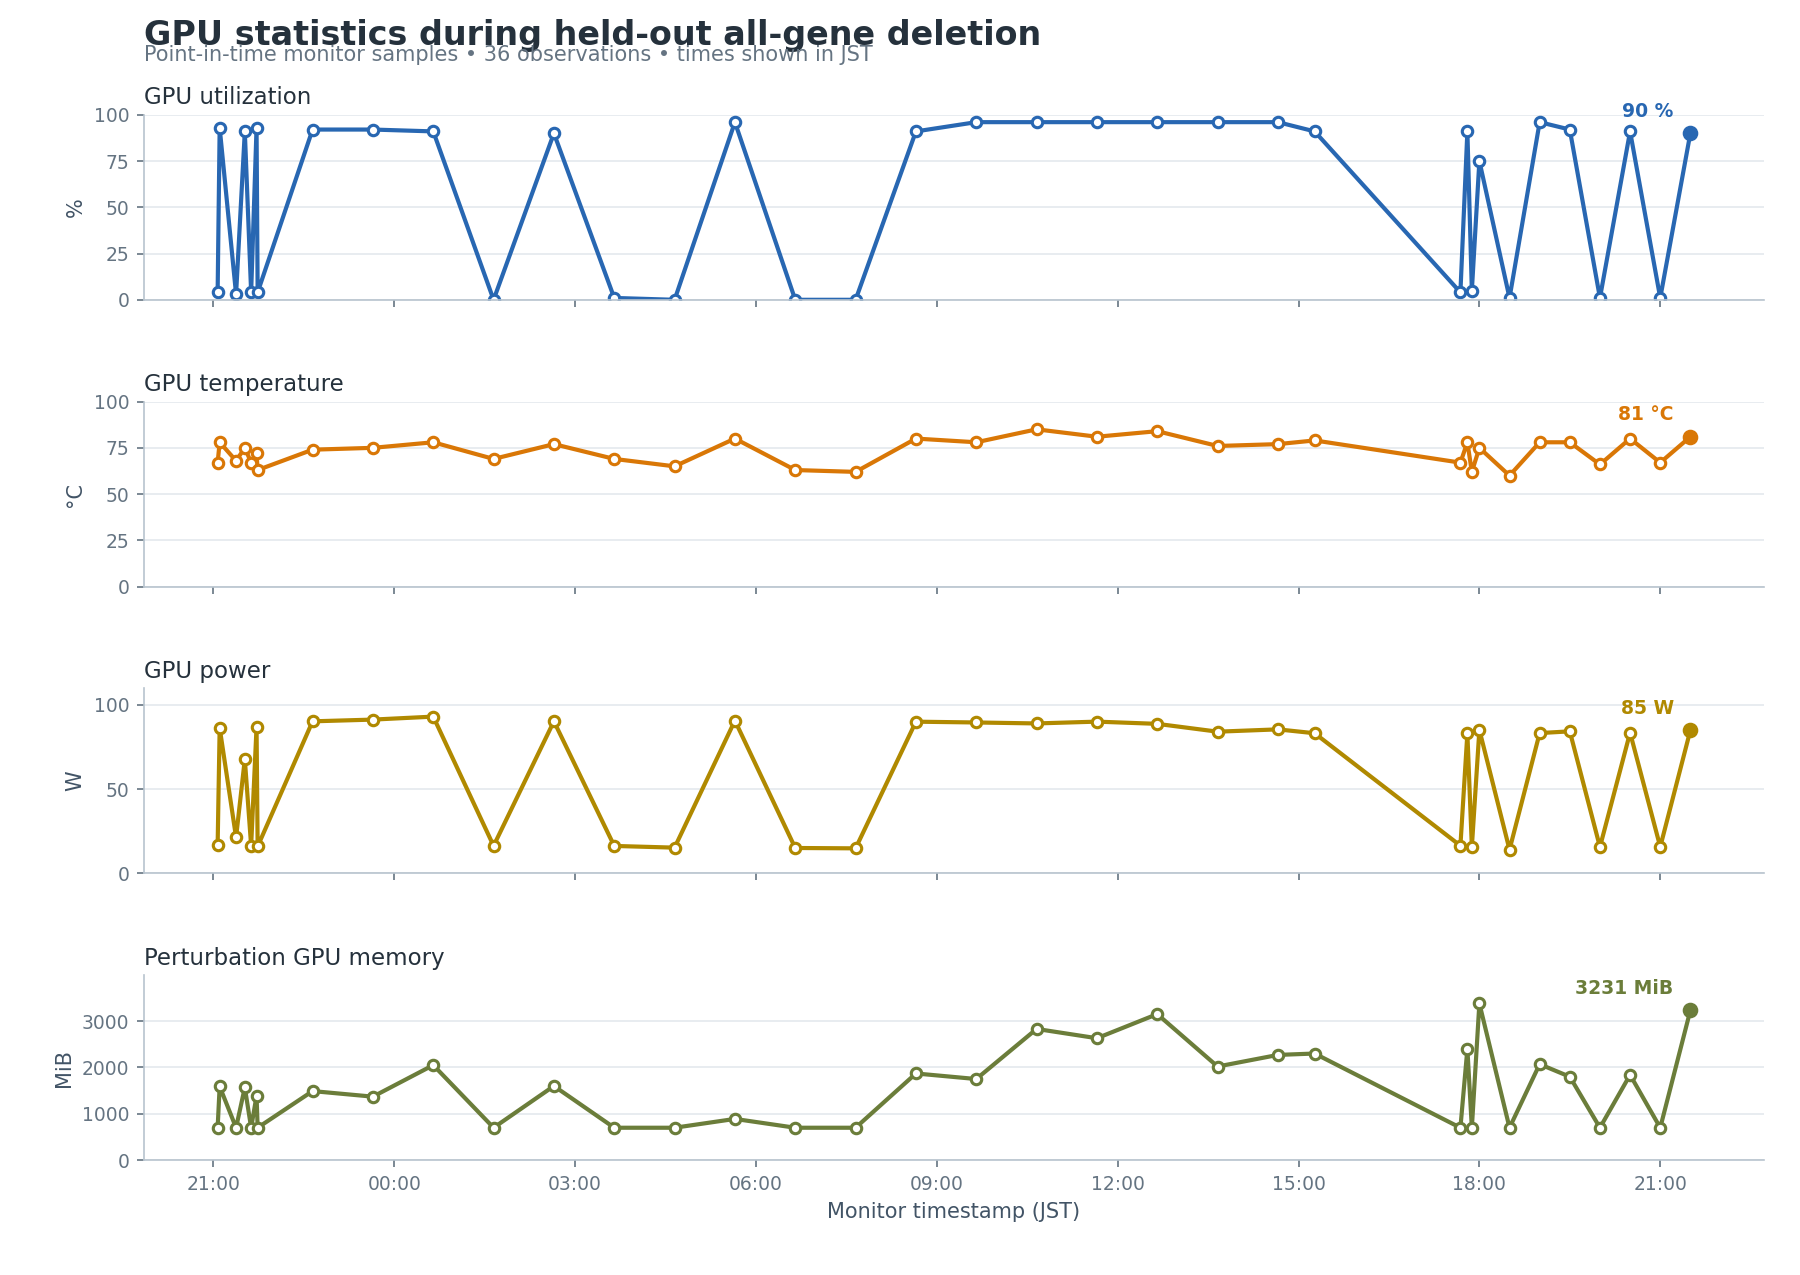
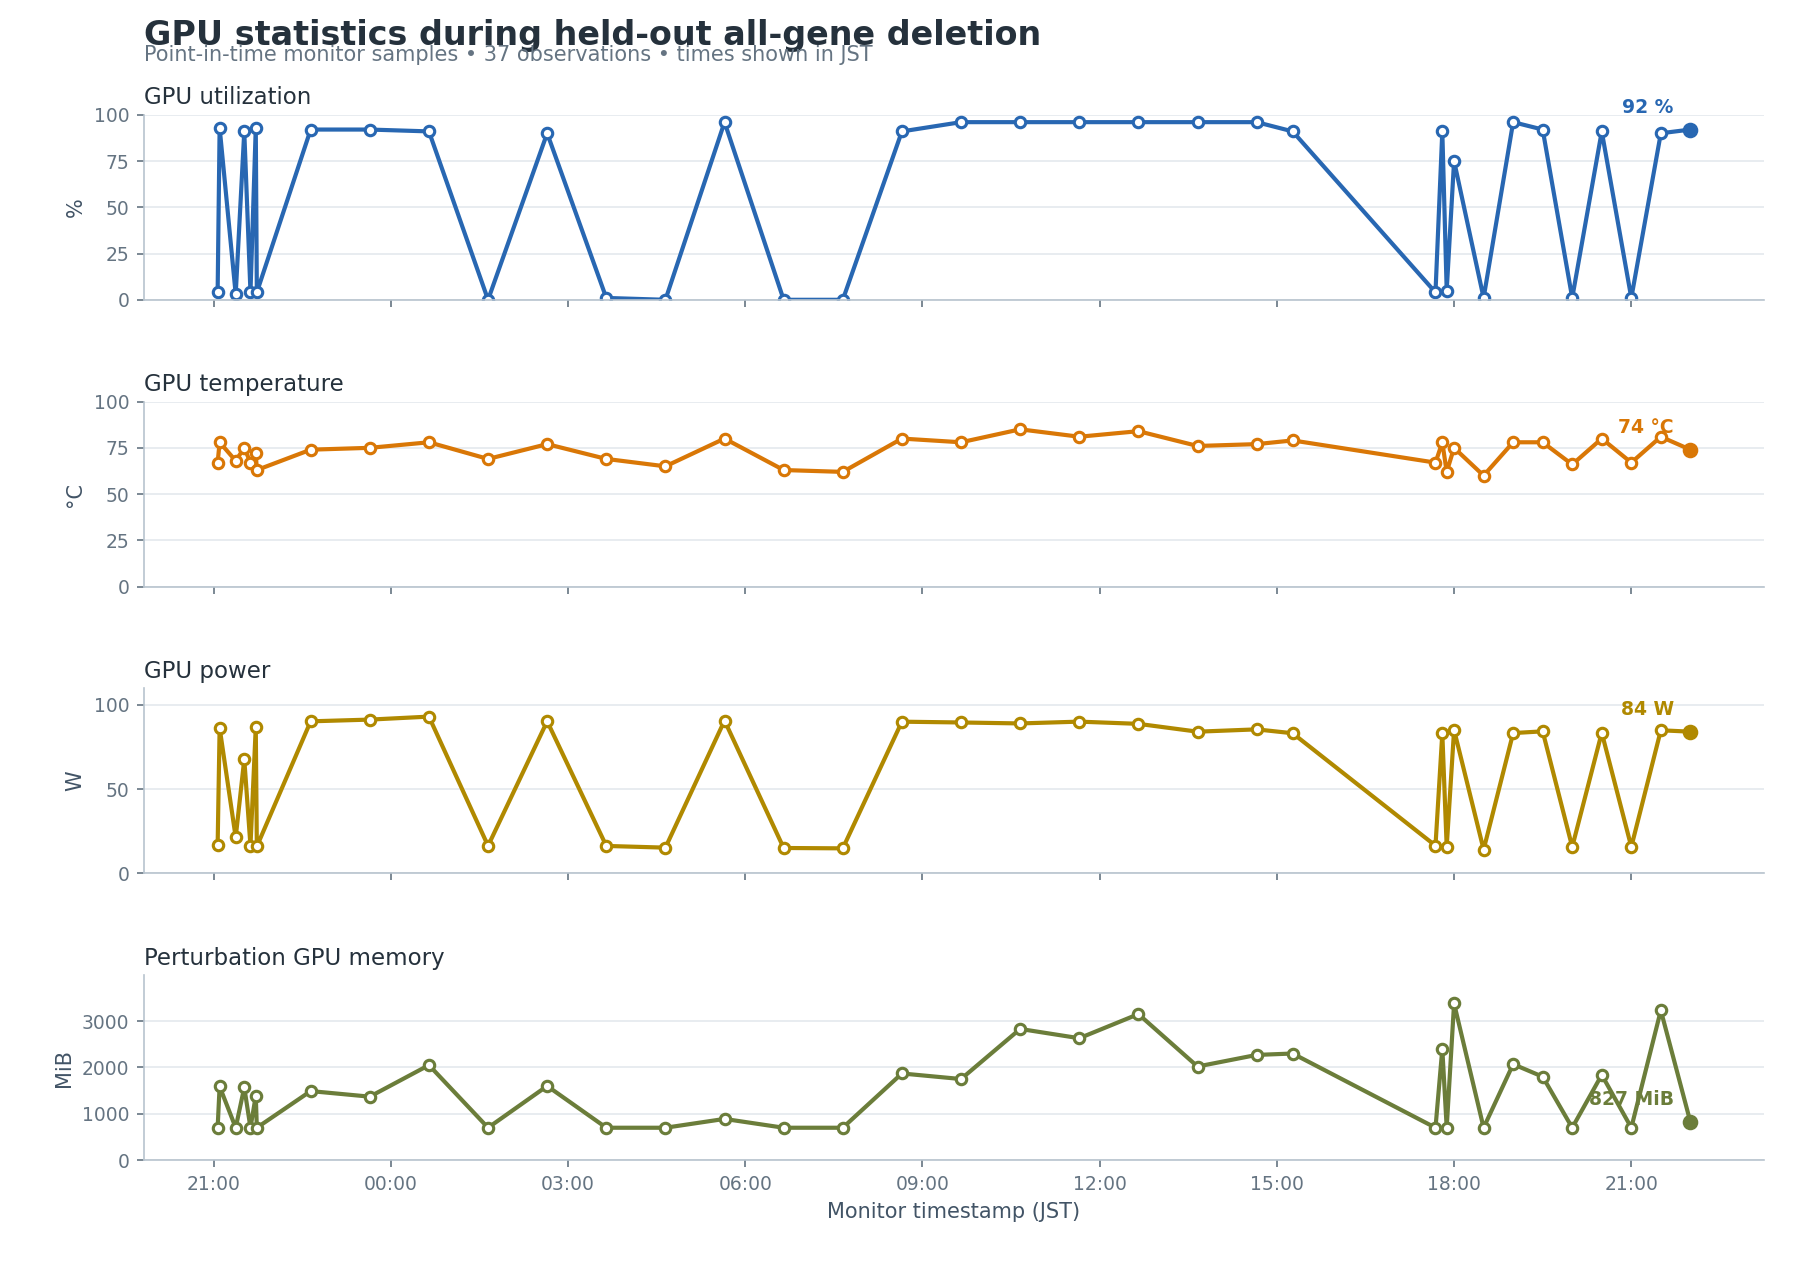
monitor: update perturbation status 2026-07-18 22:00 JST

diff --git a/current_workflow/monitoring/GPU_PROGRESS_REPORT.md b/current_workflow/monitoring/GPU_PROGRESS_REPORT.md
@@ -15,6 +15,7 @@ Newest refreshes are appended at the top and retained for the most recent
 48 runs.
 
 <!-- JOB_RUN_SUMMARIES_START -->
+- **2026-07-18T22:00:01+09:00** — RUNNING; 2,990 / 3,379 cells (88.49%). The run advanced by 42 cells and 1 shards, lifting completion from 87.24% to 88.49%. LUSC remained complete; LUAD remained complete; NORMAL moved from 977 to 1,019 cells; GPU utilization rose from 90% to 92%.
 - **2026-07-18T21:30:01+09:00** — RUNNING; 2,948 / 3,379 cells (87.24%). The run advanced by 44 cells and 2 shards, lifting completion from 85.94% to 87.24%. LUSC remained complete; LUAD remained complete; NORMAL moved from 933 to 977 cells; GPU utilization rose from 1% to 90%.
 - **2026-07-18T21:00:02+09:00** — RUNNING; 2,904 / 3,379 cells (85.94%). The run advanced by 45 cells and 2 shards, lifting completion from 84.61% to 85.94%. LUSC remained complete; LUAD remained complete; NORMAL moved from 888 to 933 cells; GPU utilization fell from 91% to 1%.
 - **2026-07-18T20:30:01+09:00** — RUNNING; 2,859 / 3,379 cells (84.61%). The run advanced by 46 cells and 2 shards, lifting completion from 83.25% to 84.61%. LUSC remained complete; LUAD remained complete; NORMAL moved from 842 to 888 cells; GPU utilization rose from 1% to 91%.
@@ -30,18 +31,18 @@ Newest refreshes are appended at the top and retained for the most recent
 
 ## Current snapshot
 
-**What changed since the prior report:** The run advanced by 44 cells and 2 shards, lifting completion from 85.94% to 87.24%. LUSC remained complete; LUAD remained complete; NORMAL moved from 933 to 977 cells; GPU utilization rose from 1% to 90%.
+**What changed since the prior report:** The run advanced by 42 cells and 1 shards, lifting completion from 87.24% to 88.49%. LUSC remained complete; LUAD remained complete; NORMAL moved from 977 to 1,019 cells; GPU utilization rose from 90% to 92%.
 
 | Metric | Value |
 | --- | --- |
-| Generated | 2026-07-18T21:30:01+09:00 |
+| Generated | 2026-07-18T22:00:01+09:00 |
 | Run status | RUNNING |
-| Overall cell progress | 2,948 / 3,379 (87.24%) |
+| Overall cell progress | 2,990 / 3,379 (88.49%) |
 | GPU | NVIDIA GB10 |
-| GPU utilization | 90% |
-| GPU temperature | 81 C |
-| GPU power | 85.0 W |
-| Perturbation GPU memory | 3,231 MiB |
+| GPU utilization | 92% |
+| GPU temperature | 74 C |
+| GPU power | 84.2 W |
+| Perturbation GPU memory | 827 MiB |
 | System memory used | 39.7 GiB |
 | System memory available | 80.0 GiB |
 | Swap used | 0.0 GiB |
@@ -52,11 +53,11 @@ Newest refreshes are appended at the top and retained for the most recent
 | --- | --- | --- | --- | --- |
 | LUSC | 560 / 560 (100.00%) | 23 / 23 | 1,120 | 348,313 / 348,313 |
 | LUAD | 1,411 / 1,411 (100.00%) | 57 / 57 | 2,822 | 1,150,097 / 1,150,097 |
-| NORMAL | 977 / 1,408 (69.39%) | 39 / 57 | 1,968 | 1,001,869 / 1,439,366 |
+| NORMAL | 1,019 / 1,408 (72.37%) | 40 / 57 | 2,052 | 1,030,482 / 1,439,366 |
 
 ## Final statistical comparisons
 
-**0 / 6 comparisons are complete. Final aggregation waits for the deletion screen, currently 119 / 137 shards.**
+**0 / 6 comparisons are complete. Final aggregation waits for the deletion screen, currently 120 / 137 shards.**
 
 | Comparison | State | Result rows | Updated | Output |
 | --- | --- | --- | --- | --- |
@@ -81,6 +82,7 @@ The history table below shows the newest samples first.
 
 | Timestamp | Cells | Progress | GPU util | Temp | Power | Shards |
 | --- | --- | --- | --- | --- | --- | --- |
+| 2026-07-18T22:00:01+09:00 | 2,990 | 88.49% | 92% | 74 C | 84.2 W | 120 |
 | 2026-07-18T21:30:01+09:00 | 2,948 | 87.24% | 90% | 81 C | 85.0 W | 119 |
 | 2026-07-18T21:00:02+09:00 | 2,904 | 85.94% | 1% | 67 C | 15.8 W | 117 |
 | 2026-07-18T20:30:01+09:00 | 2,859 | 84.61% | 91% | 80 C | 83.5 W | 115 |
@@ -88,7 +90,6 @@ The history table below shows the newest samples first.
 | 2026-07-18T19:30:01+09:00 | 2,766 | 81.86% | 92% | 78 C | 84.3 W | 111 |
 | 2026-07-18T19:00:01+09:00 | 2,729 | 80.76% | 96% | 78 C | 83.3 W | 110 |
 | 2026-07-18T18:30:01+09:00 | 2,692 | 79.67% | 1% | 60 C | 14.1 W | 108 |
-| 2026-07-18T18:00:01+09:00 | 2,646 | 78.31% | 75% | 75 C | 85.2 W | 107 |
 
 ## Job notes
 
